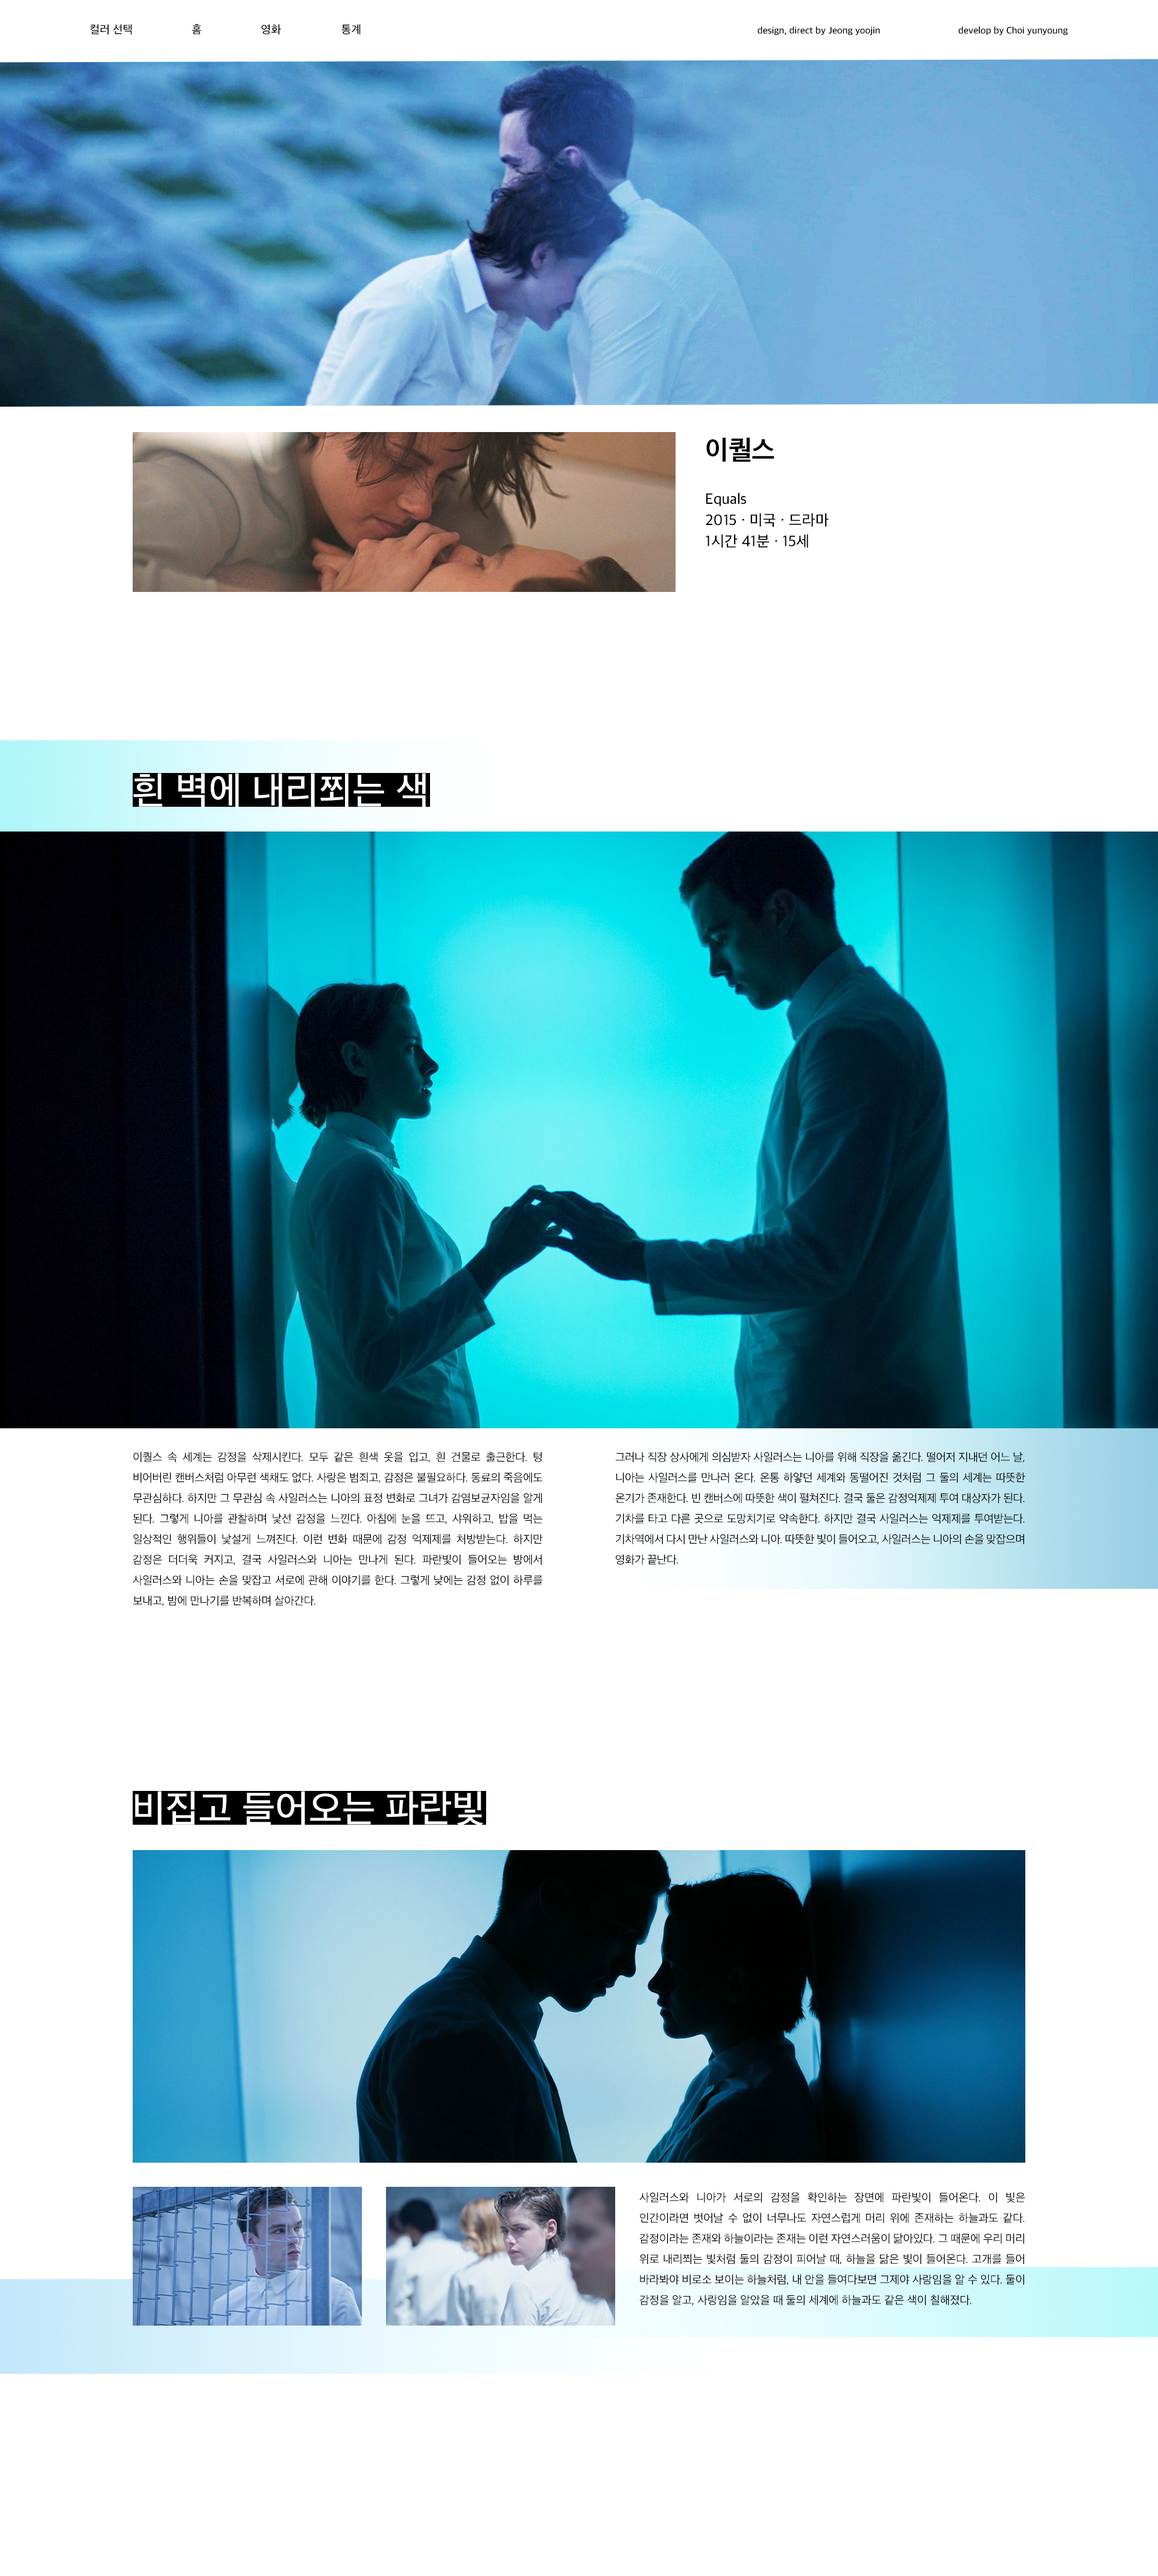
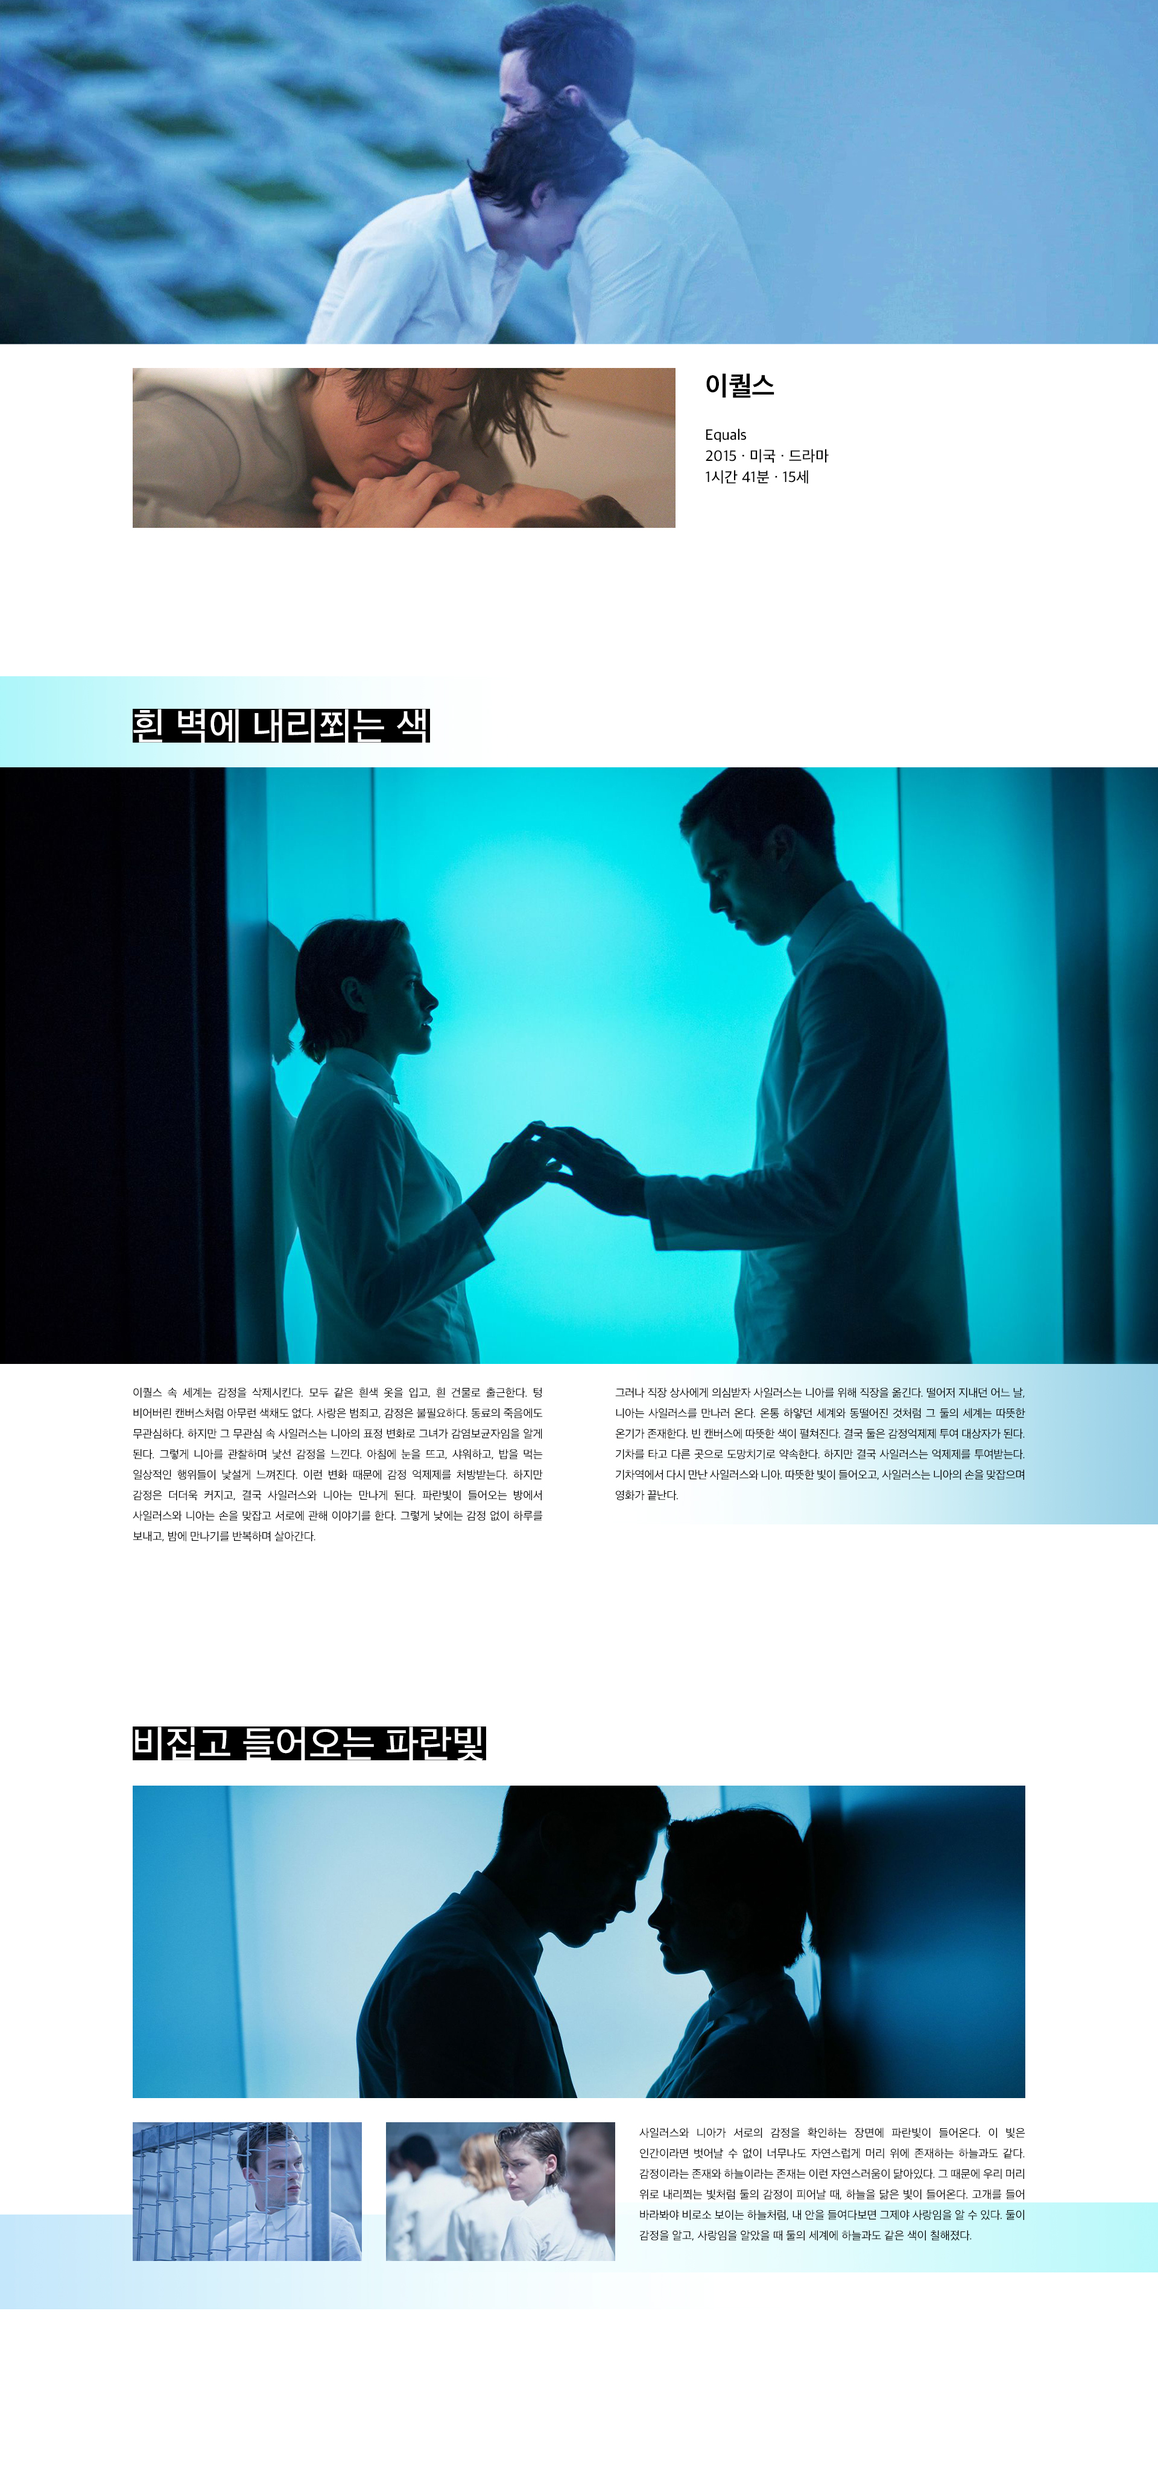
movie_[영화 시안] 페이지 내브바 경로 수정 필요함

diff --git a/movie/movie.html b/movie/movie.html
@@ -35,7 +35,7 @@
 
     <div class="movie">
         <div class="movie-item">
-            <img class="m-img" src="../img/movie/영화-화면_v1_1_0029_이터널-선샤인-5.png" alt="">
+            <a href="./movie_eternal.html"><img class="m-img" src="../img/movie/영화-화면_v1_1_0029_이터널-선샤인-5.png" alt=""></a>
             <div class="kor-title">
                 <img src="../img/movie/영화-화면_v1_1_0028_이터널-선샤인-.png" alt="">
             </div>
@@ -48,7 +48,7 @@
         </div>
 
         <div class="m-img" class="movie-item">
-            <img src="../img/movie/영화-화면_v1_1_0024_헤어질-결심-1.png" alt="">
+            <a href="./movie_devide.html"></a><img src="../img/movie/영화-화면_v1_1_0024_헤어질-결심-1.png" alt=""></a>
             <div class="kor-title">
                 <img src="../img/movie/영화-화면_v1_1_0023_헤어질-결심.png" alt="">
             </div>
@@ -61,7 +61,7 @@
         </div>
 
         <div class="m-img" class="movie-item">
-            <img src="../img/movie/영화-화면_v1_1_0019_캐롤2.png" alt="">
+            <a href="./movie_carol.html"><img src="../img/movie/영화-화면_v1_1_0019_캐롤2.png" alt=""></a>
             <div class="kor-title">
                 <img src="../img/movie/영화-화면_v1_1_0018_캐롤.png" alt="">
             </div>
@@ -74,7 +74,7 @@
         </div>
 
         <div class="m-img" class="movie-item">
-            <img src="../img/movie/영화-화면_v1_1_0014_그녀.png" alt="">
+            <a href="./movie_her.html"><img src="../img/movie/영화-화면_v1_1_0014_그녀.png" alt=""></a>
             <div class="kor-title">
                 <img src="../img/movie/영화-화면_v1_1_0013_그녀.png" alt="">
             </div>
@@ -87,7 +87,7 @@
         </div>
 
         <div class="m-img" class="movie-item">
-            <img src="../img/movie/영화-화면_v1_1_0009_이퀄스.png" alt="">
+            <a href="./movie_equals.html"><img src="../img/movie/영화-화면_v1_1_0009_이퀄스.png" alt=""></a>
             <div class="kor-title">
                 <img src="../img/movie/영화-화면_v1_1_0008_이퀄스.png" alt="">
             </div>

diff --git a/movie/movie_eternal.html b/movie/movie_eternal.html
@@ -1,0 +1,39 @@
+<!DOCTYPE html>
+<html lang="en">
+<head>
+    <meta charset="UTF-8">
+    <meta name="viewport" content="width=device-width, initial-scale=1.0">
+    <title>Document</title>
+    <link rel="stylesheet" href="../css/detail.css">
+    <link rel="stylesheet" href="../css/nav.css">
+</head>
+<body>
+    <div class="nav">
+        <div class="left">
+            <div class="nav-color">
+                <a class="n1" href="../index.html"><img src="../img/header/헤더_0003_컬러-선택.png" alt=""></a>
+                <a class="n2" href="../index.html"><img src="../img/header/red/헤더_빨강_0003_컬러-선택.png" alt=""></a>
+            </div>
+            <div class="nav-home">
+                <a class="n1" href="../home/home.html"><img src="../img/header/헤더_0004_홈.png" alt=""></a>
+                <a class="n2" href="../home/home.html"><img src="../img/header/red/헤더_빨강_0004_홈.png" alt=""></a>
+            </div>
+            <div class="nav-movie">
+                <a class="n1" href="./movie.html"><img src="../img/header/헤더_0005_영화.png" alt=""></a>
+                <a class="n2" href="./movie.html"><img src="../img/header/red/헤더_빨강_0005_영화.png" alt=""></a>
+            </div>
+            <div class="nav-st">
+                <a class="n1" href="../statistics/statistics.html"><img src="../img/header/헤더_0002_통계.png" alt=""></a>
+                <a class="n2" href="../statistics/statistics.html"><img src="../img/header/red/헤더_빨강_0002_통계.png" alt=""></a>
+            </div>
+        </div>
+        <div class="right">
+            <a class="n6" href="https://yoojin010.notion.site/ec401509191d41cfb62b3f2d2f6bb8ad?pvs=4"><img src="../img/header/헤더_0001_design,-direct-by-Jeong-yoojin.png" alt=""></a>
+            <a class="n7" href="github.com/olsi10"><img src="../img/header/헤더_0000_develop-by-Choi-yunyoung.png" alt=""></a>
+        </div>
+    </div>
+    <div class="back">
+        <img src="../img/movie_detail/이터널 선샤인 시안 4.jpg" alt="">
+    </div>
+</body>
+</html>

diff --git a/movie/movie_devide.html b/movie/movie_devide.html
@@ -1,0 +1,39 @@
+<!DOCTYPE html>
+<html lang="en">
+<head>
+    <meta charset="UTF-8">
+    <meta name="viewport" content="width=device-width, initial-scale=1.0">
+    <title>Document</title>
+    <link rel="stylesheet" href="../css/detail.css">
+    <link rel="stylesheet" href="../css/nav.css">
+</head>
+<body>
+    <div class="nav">
+        <div class="left">
+            <div class="nav-color">
+                <a class="n1" href="../index.html"><img src="../img/header/헤더_0003_컬러-선택.png" alt=""></a>
+                <a class="n2" href="../index.html"><img src="../img/header/red/헤더_빨강_0003_컬러-선택.png" alt=""></a>
+            </div>
+            <div class="nav-home">
+                <a class="n1" href="../home/home.html"><img src="../img/header/헤더_0004_홈.png" alt=""></a>
+                <a class="n2" href="../home/home.html"><img src="../img/header/red/헤더_빨강_0004_홈.png" alt=""></a>
+            </div>
+            <div class="nav-movie">
+                <a class="n1" href="./movie.html"><img src="../img/header/헤더_0005_영화.png" alt=""></a>
+                <a class="n2" href="./movie.html"><img src="../img/header/red/헤더_빨강_0005_영화.png" alt=""></a>
+            </div>
+            <div class="nav-st">
+                <a class="n1" href="../statistics/statistics.html"><img src="../img/header/헤더_0002_통계.png" alt=""></a>
+                <a class="n2" href="../statistics/statistics.html"><img src="../img/header/red/헤더_빨강_0002_통계.png" alt=""></a>
+            </div>
+        </div>
+        <div class="right">
+            <a class="n6" href="https://yoojin010.notion.site/ec401509191d41cfb62b3f2d2f6bb8ad?pvs=4"><img src="../img/header/헤더_0001_design,-direct-by-Jeong-yoojin.png" alt=""></a>
+            <a class="n7" href="github.com/olsi10"><img src="../img/header/헤더_0000_develop-by-Choi-yunyoung.png" alt=""></a>
+        </div>
+    </div>
+    <div class="back">
+        <img src="../img/movie_detail/헤어질결심 시안 5.jpg" alt="">
+    </div>
+</body>
+</html>

diff --git a/movie/movie_equals.html b/movie/movie_equals.html
@@ -1,0 +1,39 @@
+<!DOCTYPE html>
+<html lang="en">
+<head>
+    <meta charset="UTF-8">
+    <meta name="viewport" content="width=device-width, initial-scale=1.0">
+    <title>Document</title>
+    <link rel="stylesheet" href="../css/detail.css">
+    <link rel="stylesheet" href="../css/nav.css">
+</head>
+<body>
+    <div class="nav">
+        <div class="left">
+            <div class="nav-color">
+                <a class="n1" href="../index.html"><img src="../img/header/헤더_0003_컬러-선택.png" alt=""></a>
+                <a class="n2" href="../index.html"><img src="../img/header/red/헤더_빨강_0003_컬러-선택.png" alt=""></a>
+            </div>
+            <div class="nav-home">
+                <a class="n1" href="../home/home.html"><img src="../img/header/헤더_0004_홈.png" alt=""></a>
+                <a class="n2" href="../home/home.html"><img src="../img/header/red/헤더_빨강_0004_홈.png" alt=""></a>
+            </div>
+            <div class="nav-movie">
+                <a class="n1" href="./movie.html"><img src="../img/header/헤더_0005_영화.png" alt=""></a>
+                <a class="n2" href="./movie.html"><img src="../img/header/red/헤더_빨강_0005_영화.png" alt=""></a>
+            </div>
+            <div class="nav-st">
+                <a class="n1" href="../statistics/statistics.html"><img src="../img/header/헤더_0002_통계.png" alt=""></a>
+                <a class="n2" href="../statistics/statistics.html"><img src="../img/header/red/헤더_빨강_0002_통계.png" alt=""></a>
+            </div>
+        </div>
+        <div class="right">
+            <a class="n6" href="https://yoojin010.notion.site/ec401509191d41cfb62b3f2d2f6bb8ad?pvs=4"><img src="../img/header/헤더_0001_design,-direct-by-Jeong-yoojin.png" alt=""></a>
+            <a class="n7" href="github.com/olsi10"><img src="../img/header/헤더_0000_develop-by-Choi-yunyoung.png" alt=""></a>
+        </div>
+    </div>
+    <div class="back">
+        <img src="../img/movie_detail/이퀄스 시안 2.jpg" alt="">
+    </div>
+</body>
+</html>

diff --git a/movie/movie_carol.html b/movie/movie_carol.html
@@ -1,0 +1,39 @@
+<!DOCTYPE html>
+<html lang="en">
+<head>
+    <meta charset="UTF-8">
+    <meta name="viewport" content="width=device-width, initial-scale=1.0">
+    <title>Document</title>
+    <link rel="stylesheet" href="../css/detail.css">
+    <link rel="stylesheet" href="../css/nav.css">
+</head>
+<body>
+    <div class="nav">
+        <div class="left">
+            <div class="nav-color">
+                <a class="n1" href="../index.html"><img src="../img/header/헤더_0003_컬러-선택.png" alt=""></a>
+                <a class="n2" href="../index.html"><img src="../img/header/red/헤더_빨강_0003_컬러-선택.png" alt=""></a>
+            </div>
+            <div class="nav-home">
+                <a class="n1" href="../home/home.html"><img src="../img/header/헤더_0004_홈.png" alt=""></a>
+                <a class="n2" href="../home/home.html"><img src="../img/header/red/헤더_빨강_0004_홈.png" alt=""></a>
+            </div>
+            <div class="nav-movie">
+                <a class="n1" href="./movie.html"><img src="../img/header/헤더_0005_영화.png" alt=""></a>
+                <a class="n2" href="./movie.html"><img src="../img/header/red/헤더_빨강_0005_영화.png" alt=""></a>
+            </div>
+            <div class="nav-st">
+                <a class="n1" href="../statistics/statistics.html"><img src="../img/header/헤더_0002_통계.png" alt=""></a>
+                <a class="n2" href="../statistics/statistics.html"><img src="../img/header/red/헤더_빨강_0002_통계.png" alt=""></a>
+            </div>
+        </div>
+        <div class="right">
+            <a class="n6" href="https://yoojin010.notion.site/ec401509191d41cfb62b3f2d2f6bb8ad?pvs=4"><img src="../img/header/헤더_0001_design,-direct-by-Jeong-yoojin.png" alt=""></a>
+            <a class="n7" href="github.com/olsi10"><img src="../img/header/헤더_0000_develop-by-Choi-yunyoung.png" alt=""></a>
+        </div>
+    </div>
+    <div class="back">
+        <img src="../img/movie_detail/캐롤 시안 2.jpg" alt="">
+    </div>
+</body>
+</html>

diff --git a/movie/movie_her.html b/movie/movie_her.html
@@ -1,0 +1,39 @@
+<!DOCTYPE html>
+<html lang="en">
+<head>
+    <meta charset="UTF-8">
+    <meta name="viewport" content="width=device-width, initial-scale=1.0">
+    <title>Document</title>
+    <link rel="stylesheet" href="../css/detail.css">
+    <link rel="stylesheet" href="../css/nav.css">
+</head>
+<body>
+    <div class="nav">
+        <div class="left">
+            <div class="nav-color">
+                <a class="n1" href="../index.html"><img src="../img/header/헤더_0003_컬러-선택.png" alt=""></a>
+                <a class="n2" href="../index.html"><img src="../img/header/red/헤더_빨강_0003_컬러-선택.png" alt=""></a>
+            </div>
+            <div class="nav-home">
+                <a class="n1" href="../home/home.html"><img src="../img/header/헤더_0004_홈.png" alt=""></a>
+                <a class="n2" href="../home/home.html"><img src="../img/header/red/헤더_빨강_0004_홈.png" alt=""></a>
+            </div>
+            <div class="nav-movie">
+                <a class="n1" href="./movie.html"><img src="../img/header/헤더_0005_영화.png" alt=""></a>
+                <a class="n2" href="./movie.html"><img src="../img/header/red/헤더_빨강_0005_영화.png" alt=""></a>
+            </div>
+            <div class="nav-st">
+                <a class="n1" href="../statistics/statistics.html"><img src="../img/header/헤더_0002_통계.png" alt=""></a>
+                <a class="n2" href="../statistics/statistics.html"><img src="../img/header/red/헤더_빨강_0002_통계.png" alt=""></a>
+            </div>
+        </div>
+        <div class="right">
+            <a class="n6" href="https://yoojin010.notion.site/ec401509191d41cfb62b3f2d2f6bb8ad?pvs=4"><img src="../img/header/헤더_0001_design,-direct-by-Jeong-yoojin.png" alt=""></a>
+            <a class="n7" href="github.com/olsi10"><img src="../img/header/헤더_0000_develop-by-Choi-yunyoung.png" alt=""></a>
+        </div>
+    </div>
+    <div class="back">
+        <img src="../img/movie_detail/그녀 시안 1.jpg" alt="">
+    </div>
+</body>
+</html>

diff --git a/css/nav.css b/css/nav.css
@@ -12,6 +12,7 @@ a {
     display: flex;
     justify-content: space-between;
     margin-top: 40px;
+    margin-bottom: 126px;
 }
 
 .left {

diff --git a/css/detail.css b/css/detail.css
@@ -1,5 +1,7 @@
 body {
     overflow-x: hidden;
+    margin: 0;
+    padding: 0;
 }
 
 .back {
